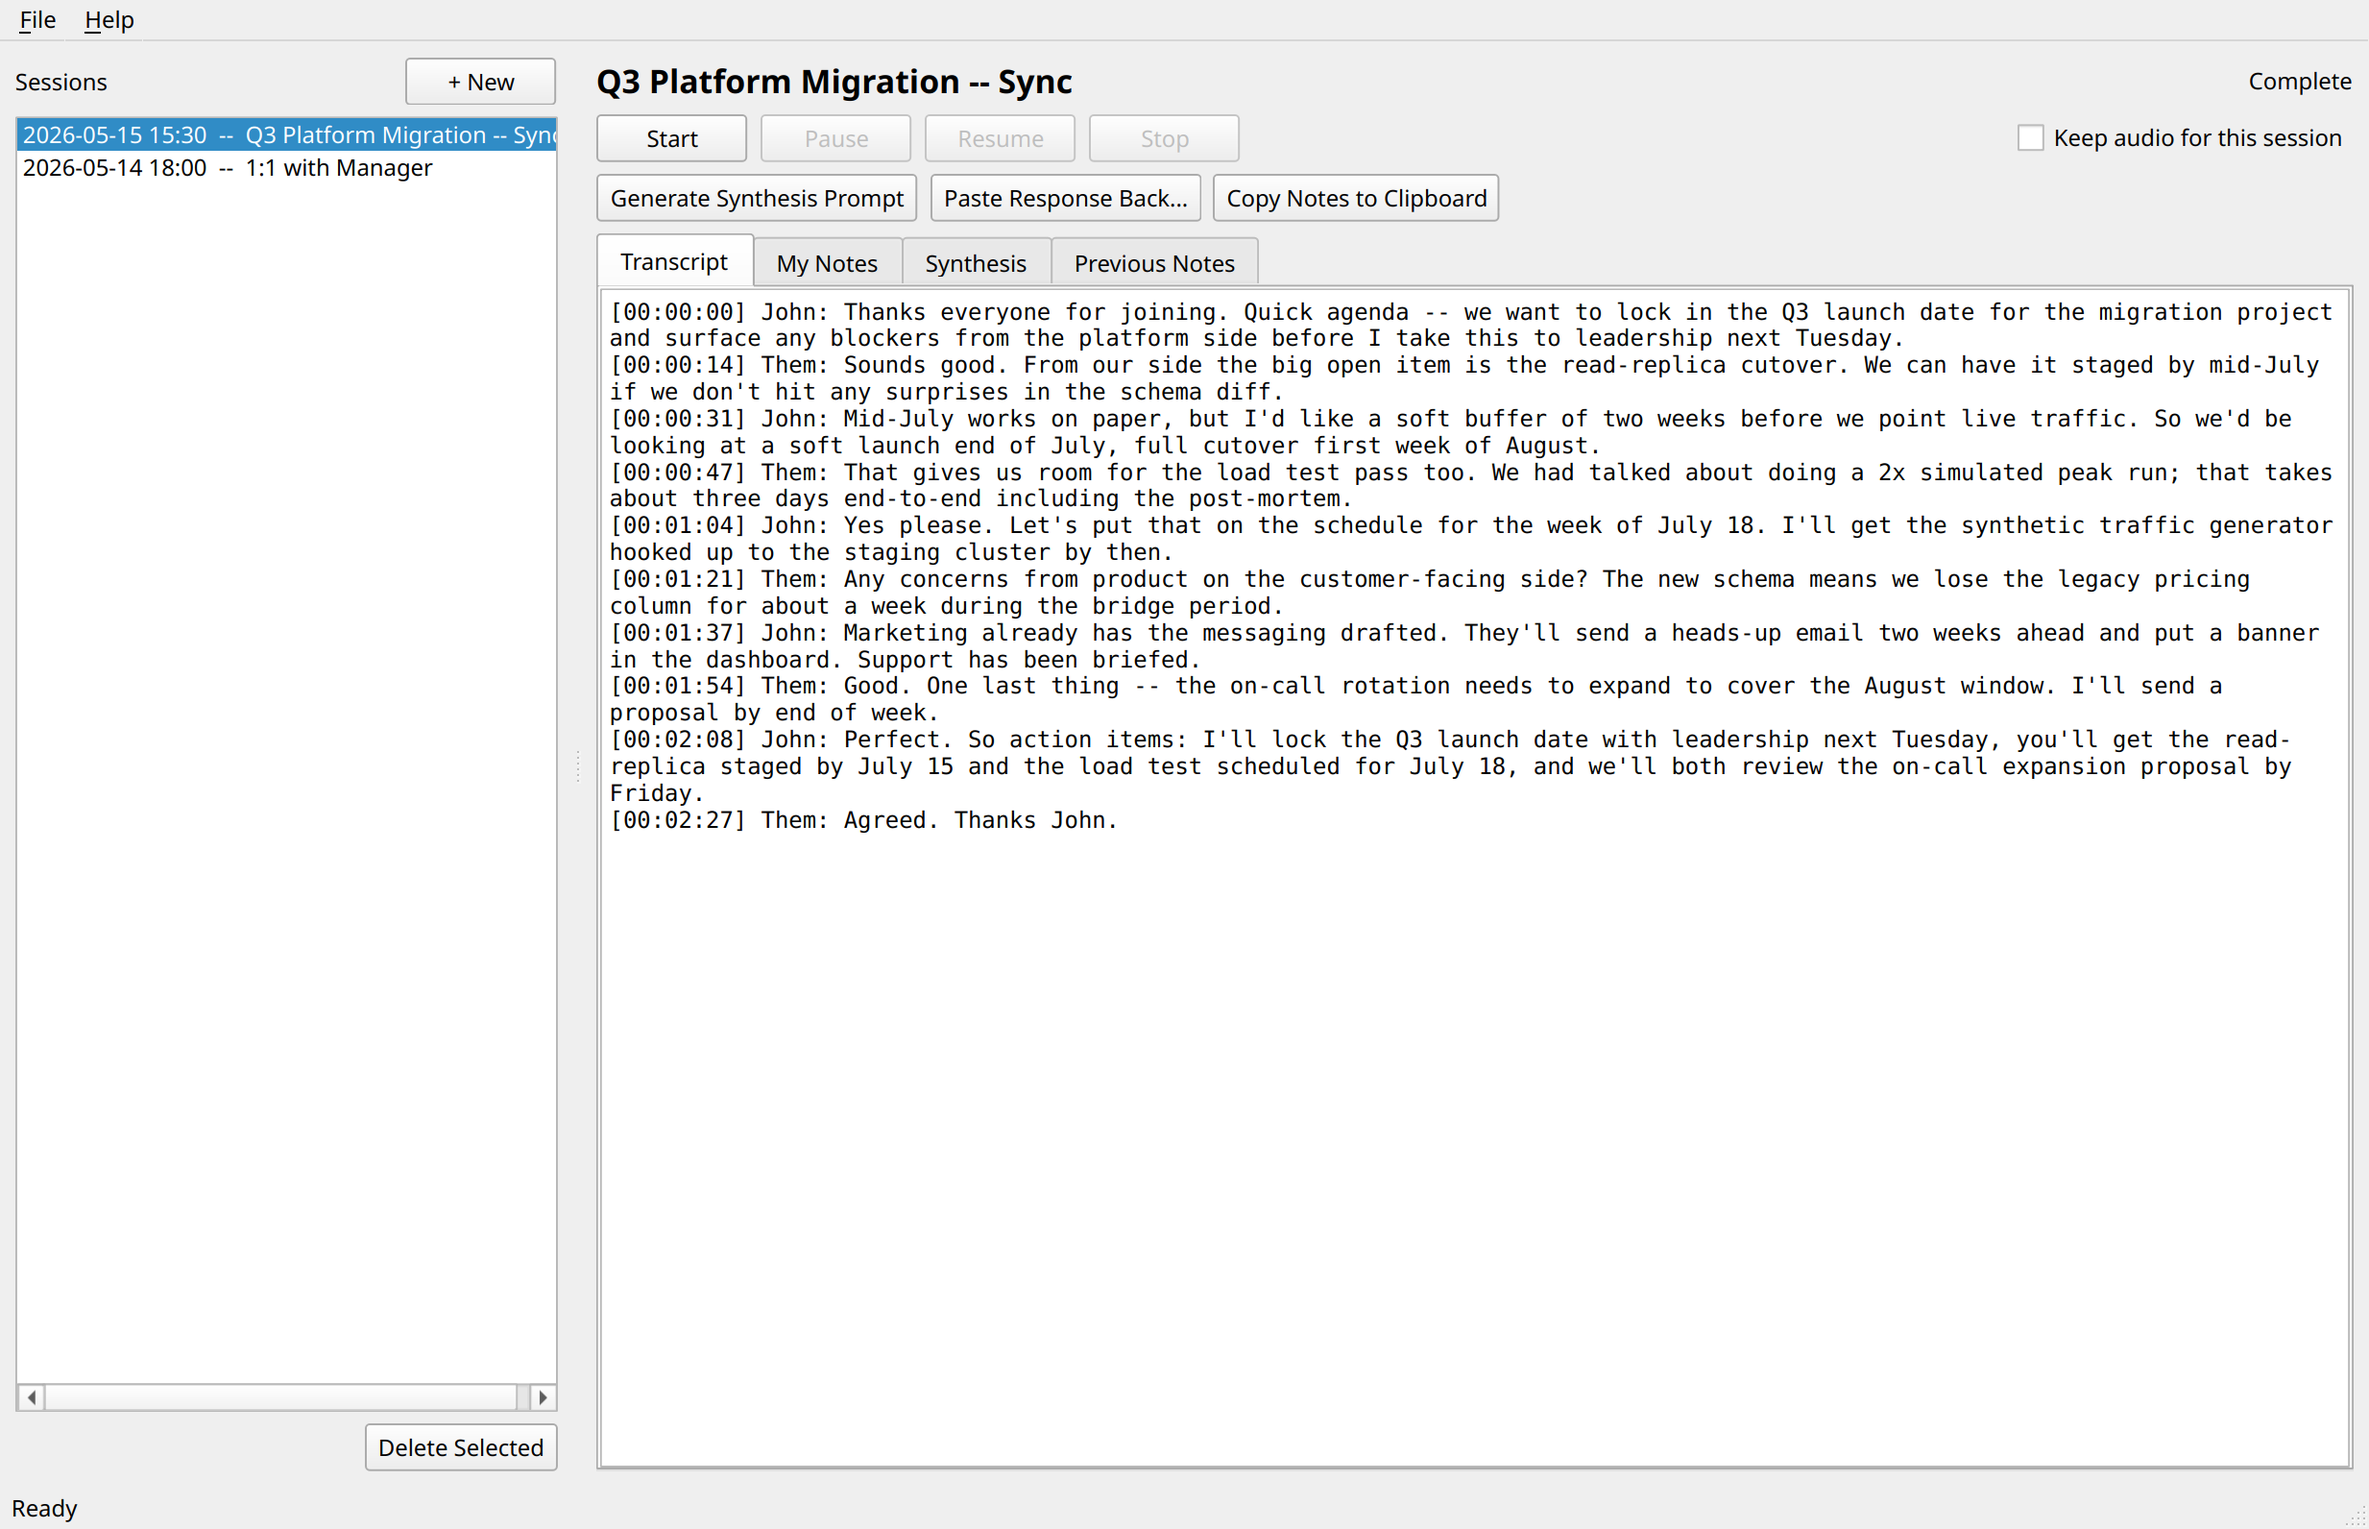
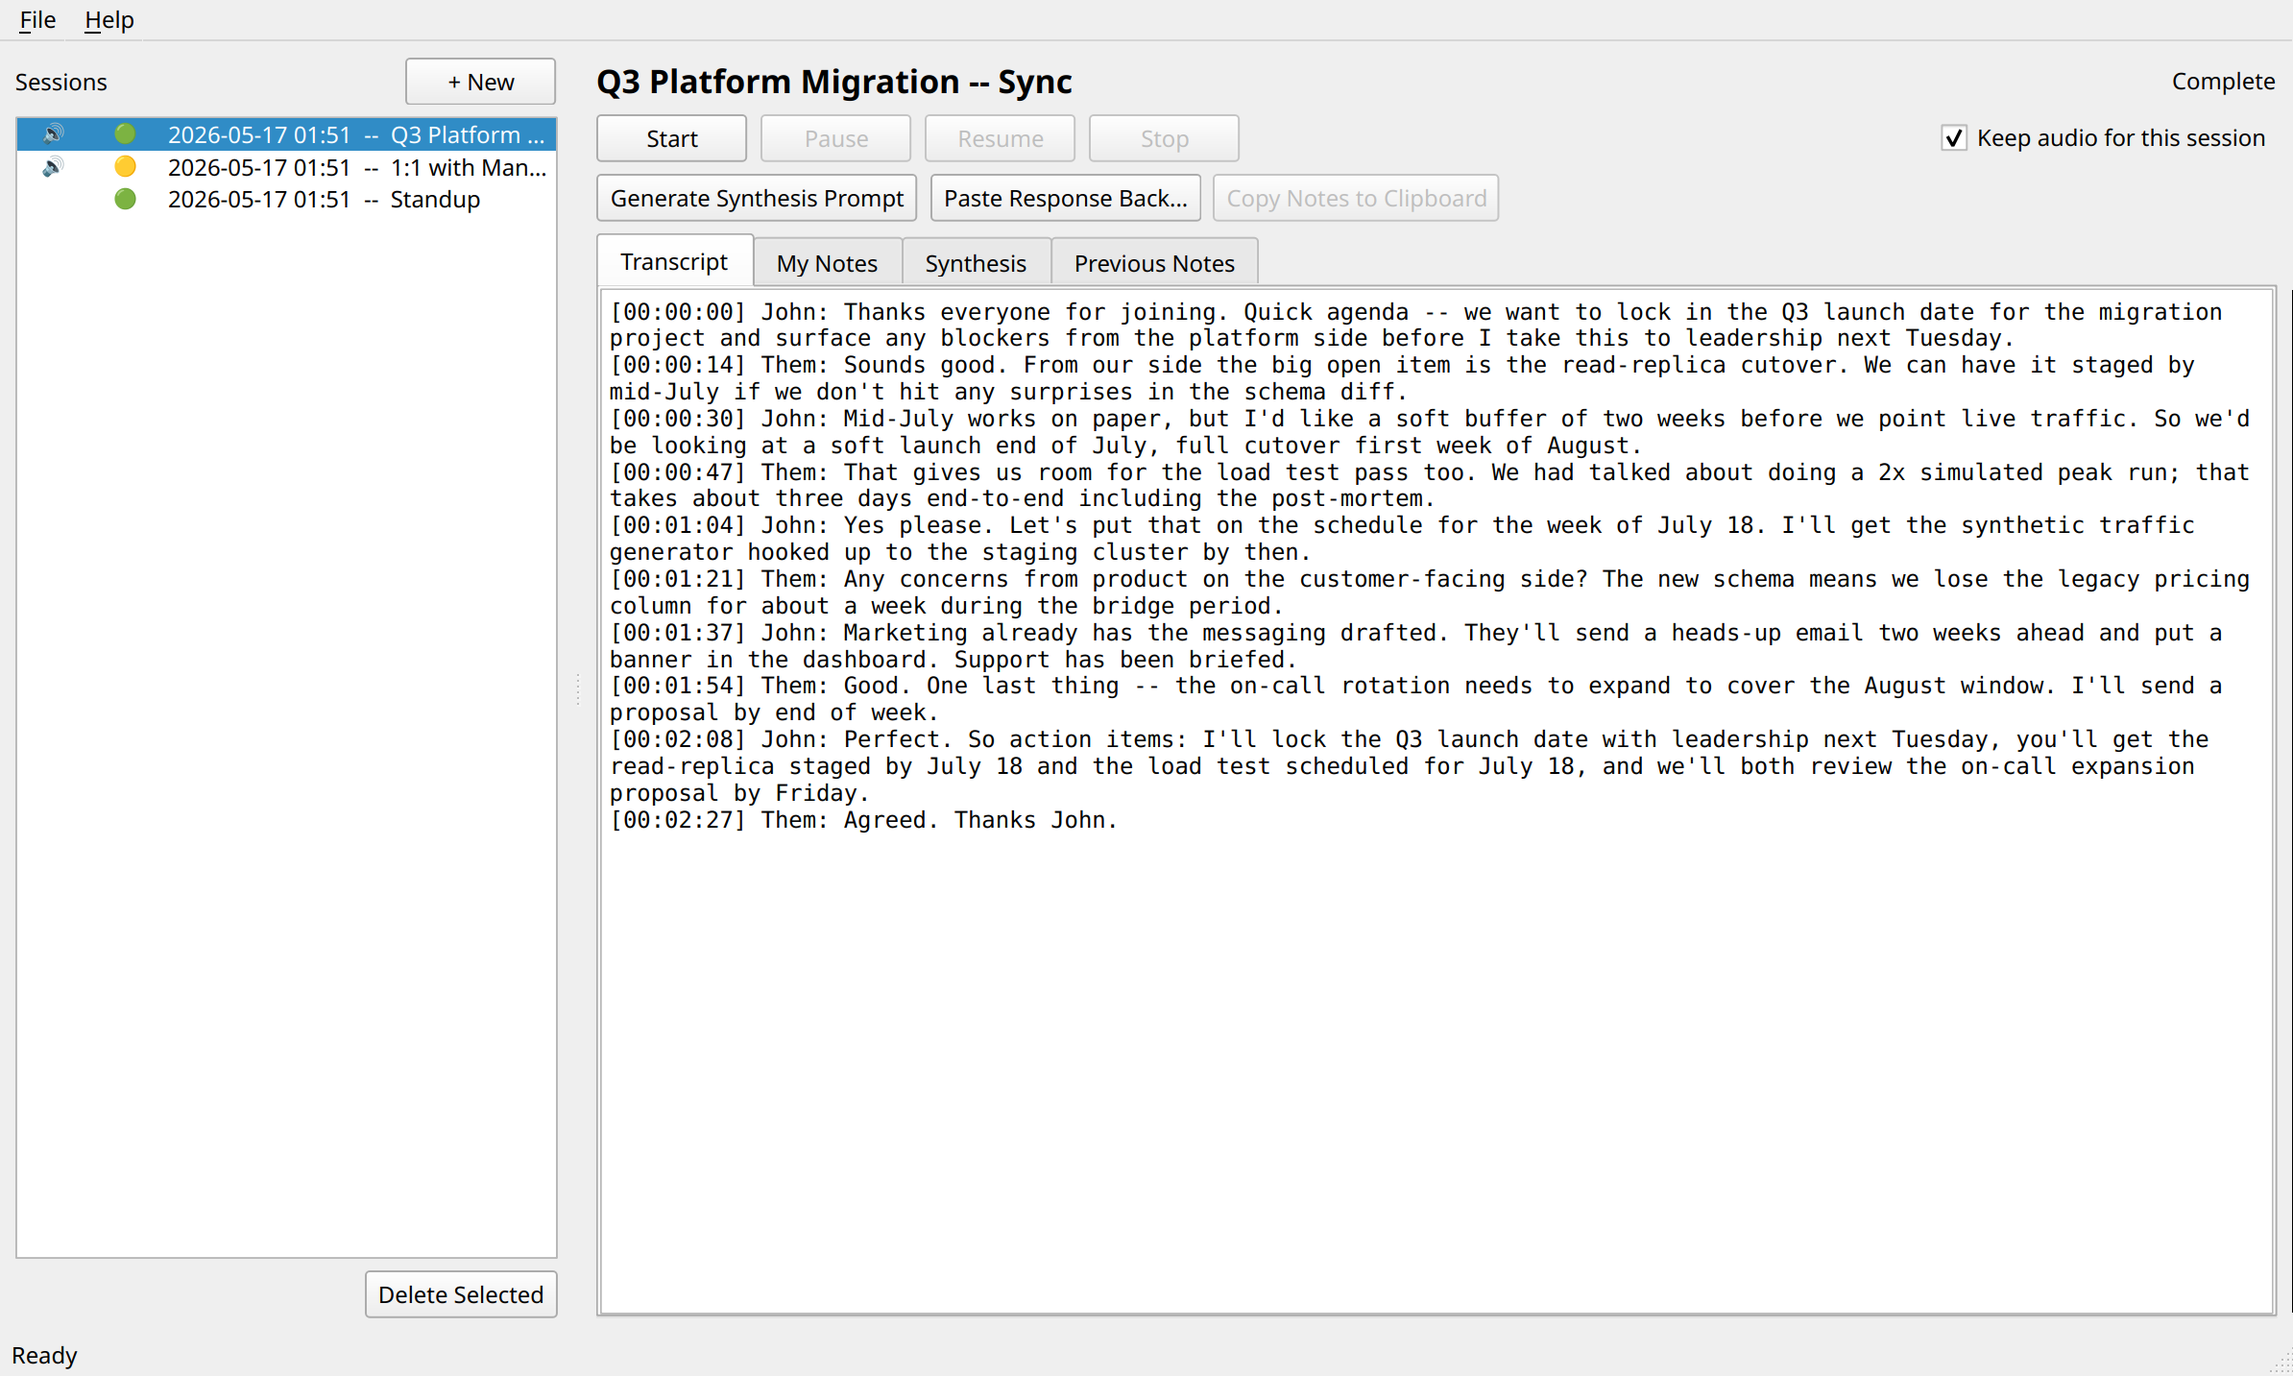
Refresh screenshots + docs for v0.4 additions
- 01-main-transcript.png: regenerated against the new three-column
  session list. Demo data seeds three sessions in varied states so
  audio (🔊) + state (🔴/🟡/🟢) indicators are all visible.
- 06-dialog-new-session.png: refreshed to show the Pick from Calendar...
  button (the harness force-enables outlook_calendar.is_available so
  the button renders for docs).
- 11-dialog-calendar-picker.png (new): shows the picker with three
  sample meetings.

README "Screenshots" section now describes the indicator columns and
the new picker dialog.

diff --git a/README.md b/README.md
@@ -41,6 +41,12 @@ the example below); the other side of the call is labeled `Them`.
 
 ![Main window -- Transcript tab](docs/screenshots/01-main-transcript.png)
 
+The session list has two narrow indicator columns to the left of each
+title: a speaker icon if the audio recording is still on disk, and a
+state dot (red while recording, yellow while the post-Stop refinement
+pass is running, green when refined). Hover any cell to see what that
+column conveys.
+
 **My Notes -- your running buffer alongside the transcript.** Markdown
 source with a small formatting toolbar. Sections (`# Attendees / # Agenda
 / # Notes / # Action Items`) auto-seed on first open. Everything you
@@ -65,9 +71,17 @@ time you paste a new response, the prior `notes.md` is archived to
 
 ### Dialogs
 
-**New Session** -- title plus a per-session "Keep recording" override:
+**New Session** -- title plus a per-session "Keep recording" override.
+When Outlook is reachable, a **Pick from Calendar...** button appears so
+you can pre-create a session for an upcoming meeting:
 
 ![New Session dialog](docs/screenshots/06-dialog-new-session.png)
+
+**Pick from Calendar** -- lists today's remaining meetings; select one
+to pre-fill the session title (still editable) and queue the attendees
++ agenda for the new session's My Notes:
+
+![Calendar picker](docs/screenshots/11-dialog-calendar-picker.png)
 
 **New Session pre-filled from an Outlook calendar invite** -- click the
 "Meeting starting" tray notification and the dialog opens with the
